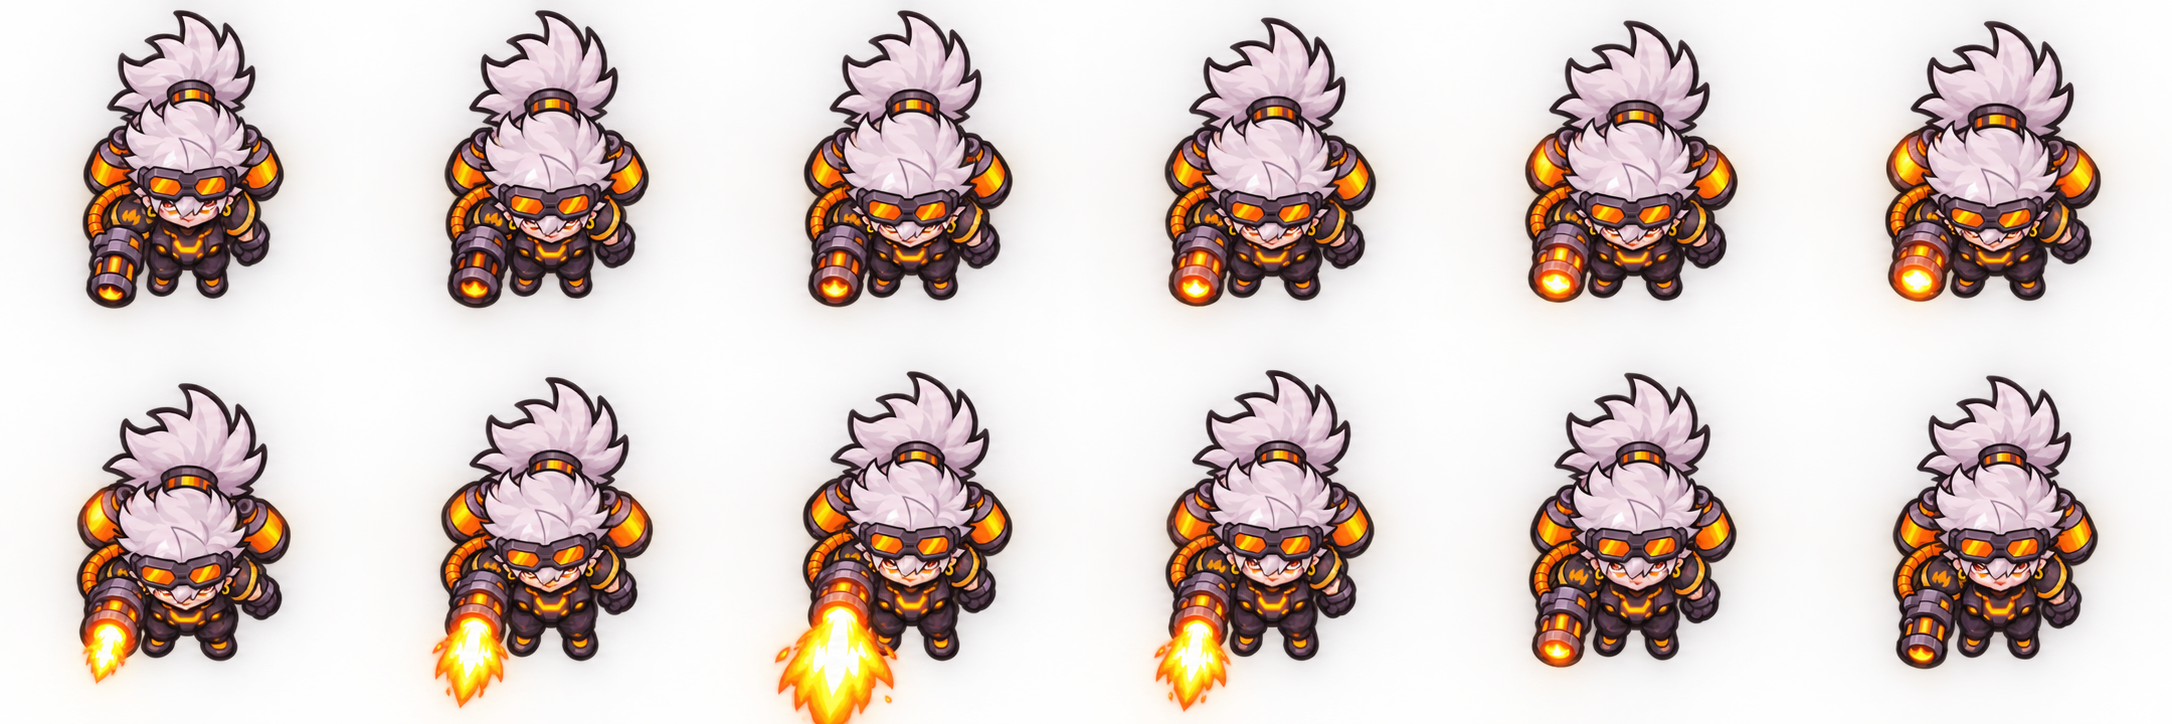
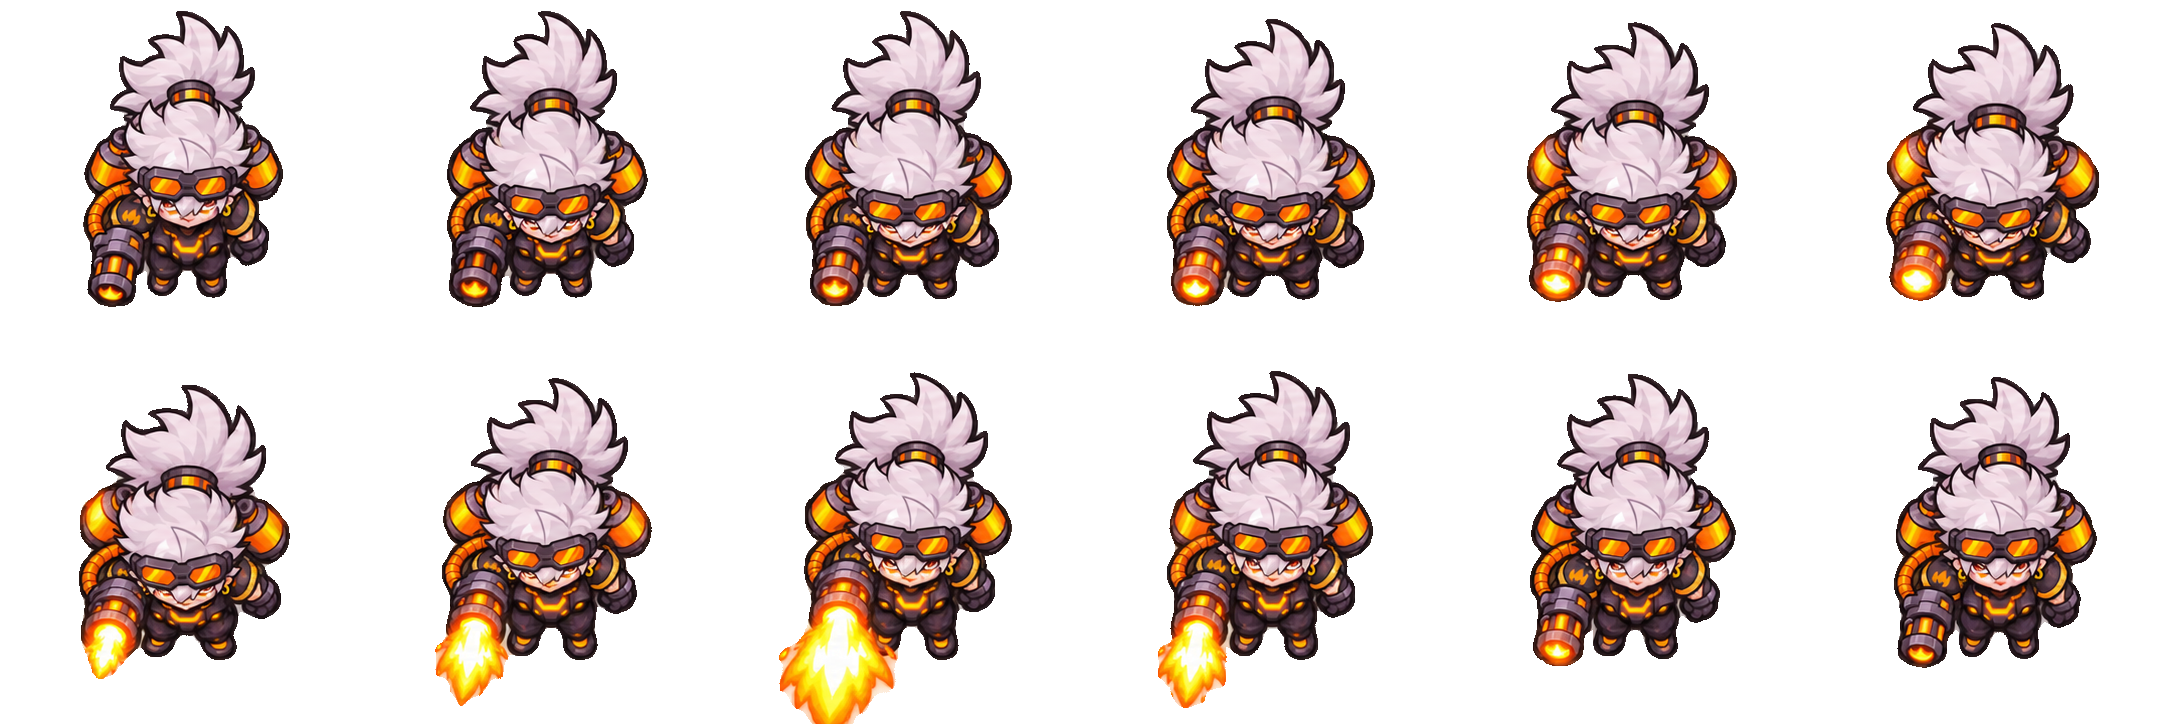
SCORCH hướng S: lọc nền trắng mờ, căn theo đầu (BAND=top, NEO=dy) vì lửa che chân; khung cao 224
Claude-Session: https://claude.ai/code/session_016VkJ26f22ubevy4EnREsEV

diff --git a/tools/demo-cat-luoi-khung-pixel.py b/tools/demo-cat-luoi-khung-pixel.py
@@ -1,3 +1,4 @@
+import os
 # Cắt lưới khung (cols x rows) theo khối liền, căn thân bằng khớp hình với khung 1, chân bám đất, thu nhỏ pixel
 from PIL import Image, ImageDraw
 import numpy as np, sys
@@ -17,13 +18,14 @@ for i in range(k):
     cy,cx=com[i]; groups[int(np.argmin([(cx-a)**2+((cy-b)*1.5)**2 for a,b in cen]))].append(i+1)
 masks=[np.isin(lab,g) for g in groups]
 L=[]
+lua=(arr[:,:,0]>215)&(arr[:,:,1]>140)&(arr[:,:,2]<150)
 for mm in masks:
     a=arr.copy(); a[:,:,3]=np.where(mm,a[:,:,3],0); L.append(a)
 def body(mm):
     lj,kj=ndimage.label(mm); b=np.argmax(ndimage.sum(mm,lj,range(1,kj+1)))+1; return lj==b
 b0m=body(masks[0]); ys=np.nonzero(b0m.any(1))[0]; t0,b0=ys[0],ys[-1]; H0=b0-t0
 cx0=int(np.median(np.nonzero(b0m[b0-30:b0+1])[1]))
-y1,y2=int(t0+H0*0.40),int(b0+1); x1,x2=cx0-int(H0*0.16),cx0+int(H0*0.16)
+y1,y2=(int(t0),int(t0+H0*0.55)) if os.environ.get('BAND')=='top' else (int(t0+H0*0.40),int(b0+1)); x1,x2=cx0-int(H0*0.16),cx0+int(H0*0.16)
 def feat(a):
     al=a[:,:,3:4]/255.0; return np.concatenate([a[:,:,:3]*al/255.0,al],2)
 T=feat(L[0][y1:y2,x1:x2])
@@ -48,17 +50,17 @@ for j in range(1,n):
             if e<best[0]: best=(e,dx,dy)
     shifts.append((best[1],best[2]))
 sc=116/H0
-FW,FH=224,176
+FW,FH=224,int(os.environ.get("FH",176))
 frames=[]
 for j in range(n):
-    dx,dy=shifts[j]; bj=body(masks[j]); ay=np.nonzero(bj.any(1))[0][-1]; ax=cx0+dx
+    dx,dy=shifts[j]; bj=body(masks[j]); ay=(b0+dy) if os.environ.get("NEO")=="dy" else np.nonzero(bj.any(1))[0][-1]; ax=cx0+dx
     yy,xx=np.nonzero(masks[j]); X0,X1,Y0,Y1=xx.min(),xx.max()+1,yy.min(),yy.max()+1
     c=Image.fromarray(L[j].astype(np.uint8),'RGBA').crop((X0,Y0,X1,Y1))
     c2=c.resize((max(1,round(c.width*sc)),max(1,round(c.height*sc))),Image.LANCZOS)
     a2=np.array(c2); al=a2[:,:,3]>110
     q=Image.fromarray(a2[:,:,:3]).quantize(colors=40,method=Image.Quantize.MEDIANCUT,dither=Image.Dither.NONE).convert('RGB')
     p=Image.fromarray(np.dstack([np.array(q),(al*255).astype('uint8')]),'RGBA')
-    px=round(FW/2-(ax-X0)*sc); py=round(FH-8-(ay-Y0)*sc)
+    px=round(FW/2-(ax-X0)*sc); py=round(FH-int(os.environ.get("PADB",8))-(ay-Y0)*sc)
     assert px>=0 and px+p.width<=FW and py>=0 and py+p.height<=FH+8,(j,px,py,p.size)
     F=Image.new('RGBA',(FW,FH),(0,0,0,0)); F.paste(p,(px,py),p); frames.append(F)
 sheet=Image.new('RGBA',(FW*n,FH),(0,0,0,0))
@@ -69,6 +71,6 @@ durs=durs or [100]*n; Z=3; out=[]
 for r in range(2):
     for f in frames:
         b=Image.new('RGBA',f.size,(96,100,108,255)); b.alpha_composite(f)
-        g=b.resize((FW*Z,FH*Z),Image.NEAREST).convert('RGB'); ImageDraw.Draw(g).line((FW*Z//2,0,FW*Z//2,FH*Z),fill=(70,74,80)); out.append(g)
+        g=b.resize((FW*Z,FH*Z),Image.NEAREST).convert('RGB'); out.append(g)
 out[0].save(S+name+'.gif',save_all=True,append_images=out[1:],duration=durs*2,loop=0)
 print('ok',shifts)
